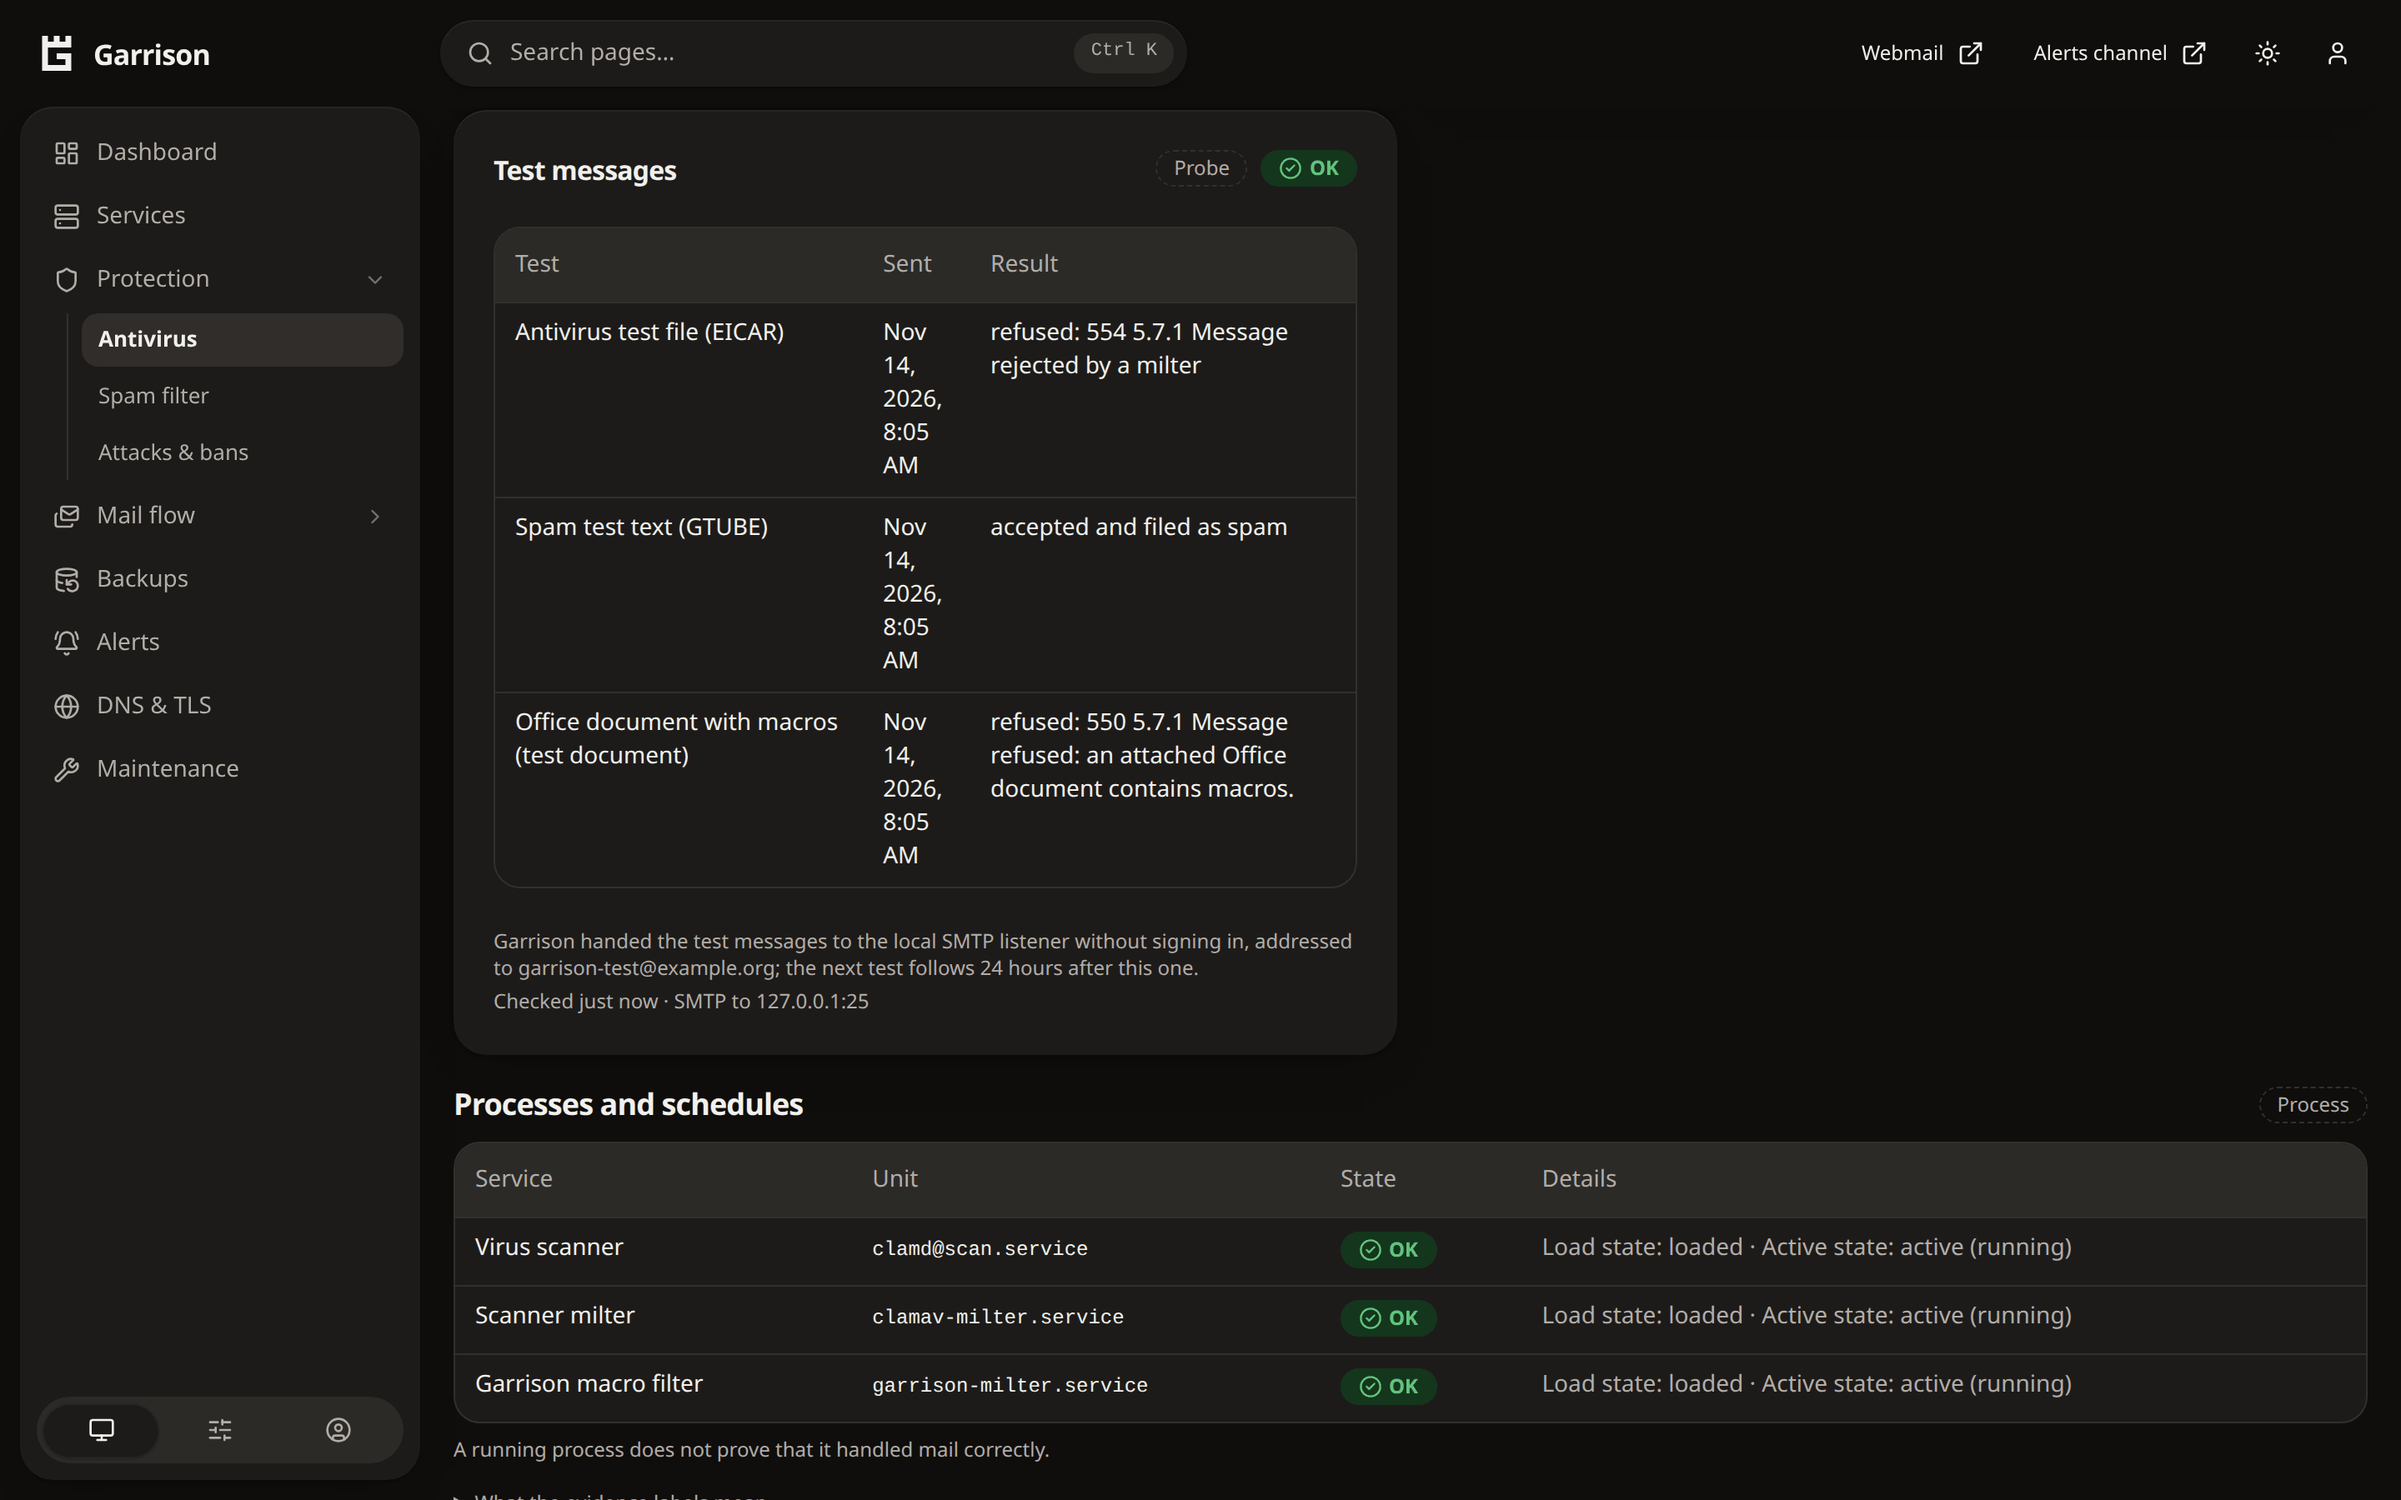
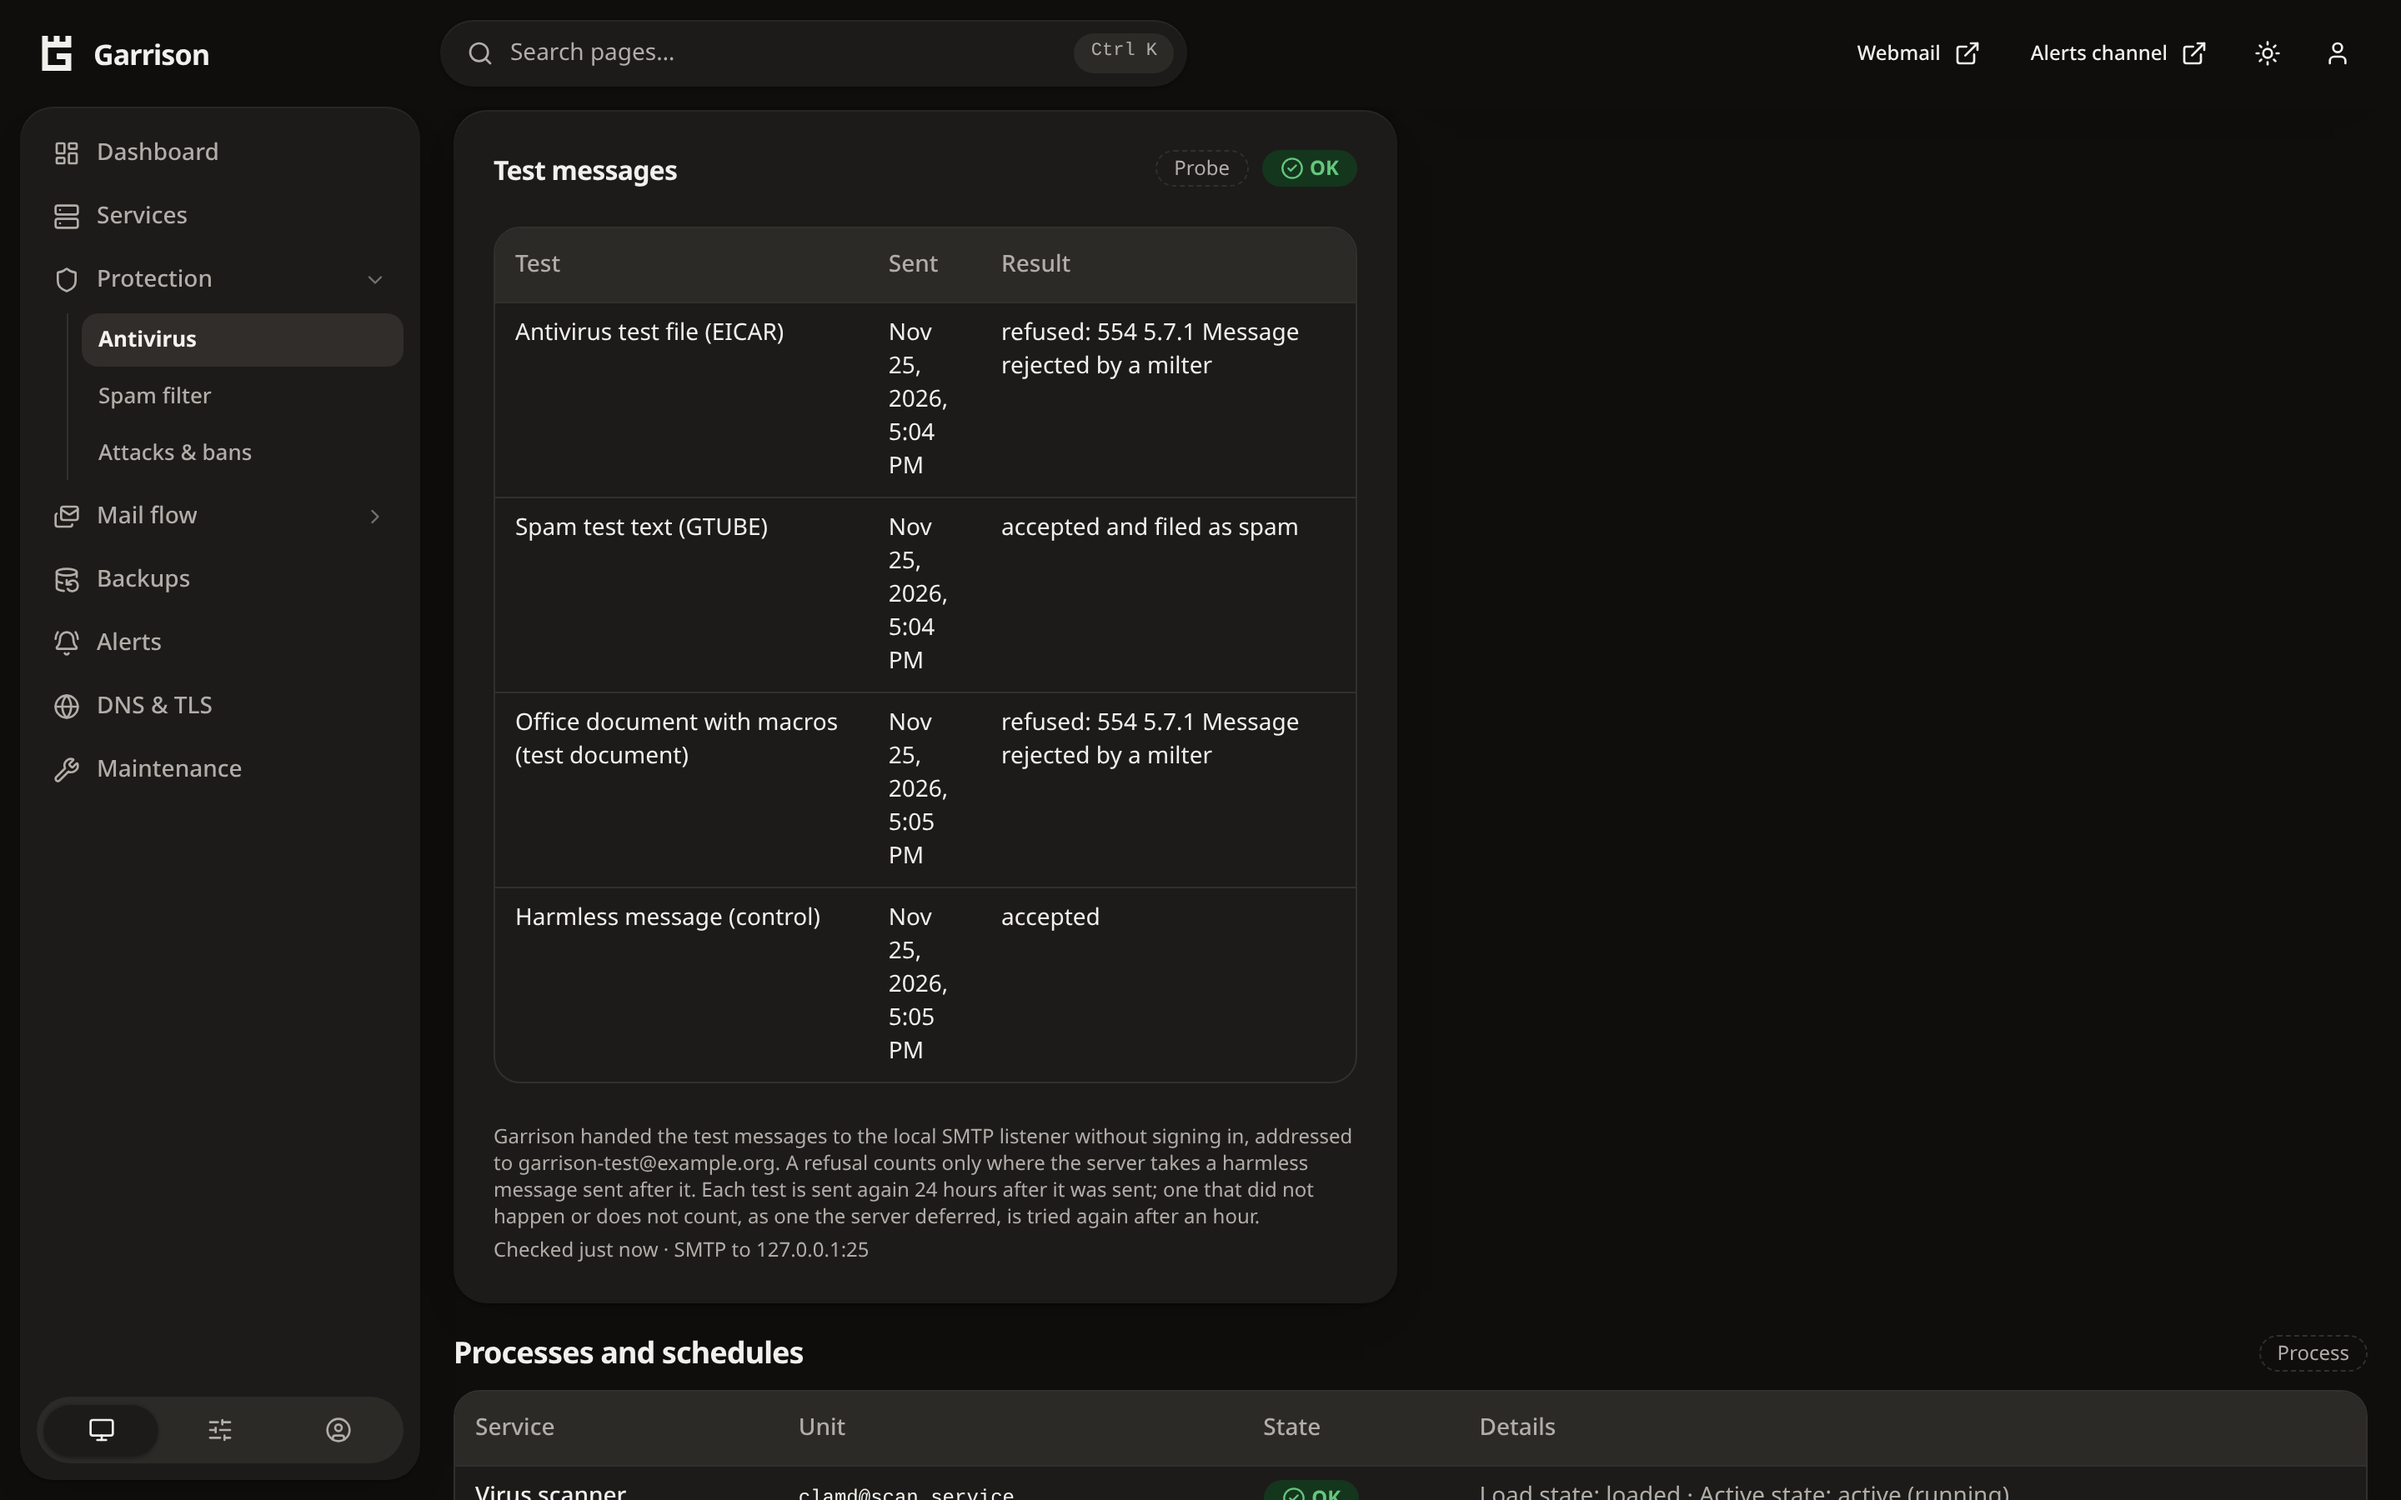
Take the README's Antivirus picture again
The preview no longer shows a macro filter's service, and the test
document's refusal is the scanner's milter's.

diff --git a/README.md b/README.md
@@ -82,7 +82,7 @@ success.
     <td><a href=".github/screenshots/dns-tls.png"><img src=".github/screenshots/dns-tls.png" alt="DNS and TLS in the dark theme: reverse names of four sending addresses and the certificates of five TLS listeners"></a><br>DNS &amp; TLS: the reverse names of the sending addresses and the certificate of every listener, under each mail host's name.</td>
   </tr>
   <tr>
-    <td><a href=".github/screenshots/antivirus.png"><img src=".github/screenshots/antivirus.png" alt="Antivirus in the dark theme: the daily test messages, one of them an Office document with macros that was refused, and the running scanner"></a><br>Antivirus: the daily test messages through the server, among them a document that a scanner told to report Office macros must refuse.</td>
+    <td><a href=".github/screenshots/antivirus.png"><img src=".github/screenshots/antivirus.png" alt="Antivirus in the dark theme: the daily test messages, one of them an Office document with macros that was refused, beside a harmless message that was taken"></a><br>Antivirus: the daily test messages through the server, among them a document that a scanner told to report Office macros must refuse.</td>
     <td><a href=".github/screenshots/backups.png"><img src=".github/screenshots/backups.png" alt="Backups: the local backup job's last run and a restic repository with its newest snapshot, size, integrity check and test restore"></a><br>Backups: the backup job's last run, and a restic repository with its newest snapshot, integrity check and test restore.</td>
   </tr>
   <tr>
